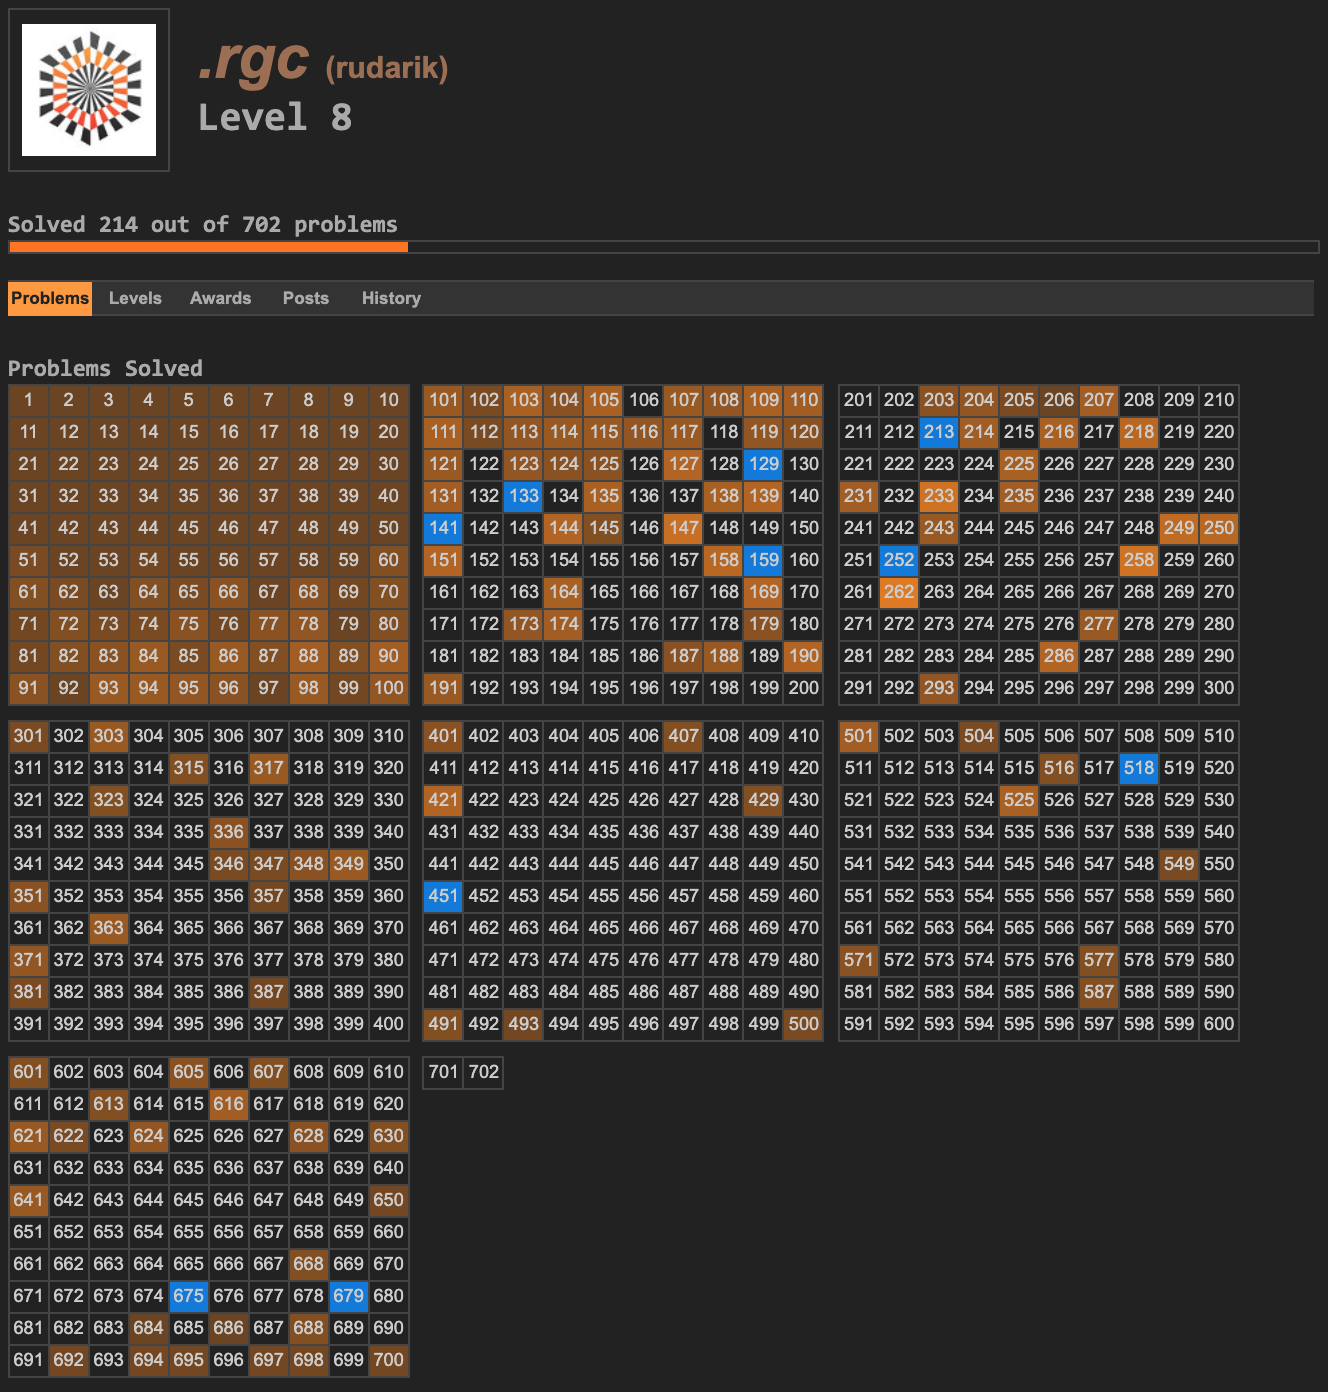
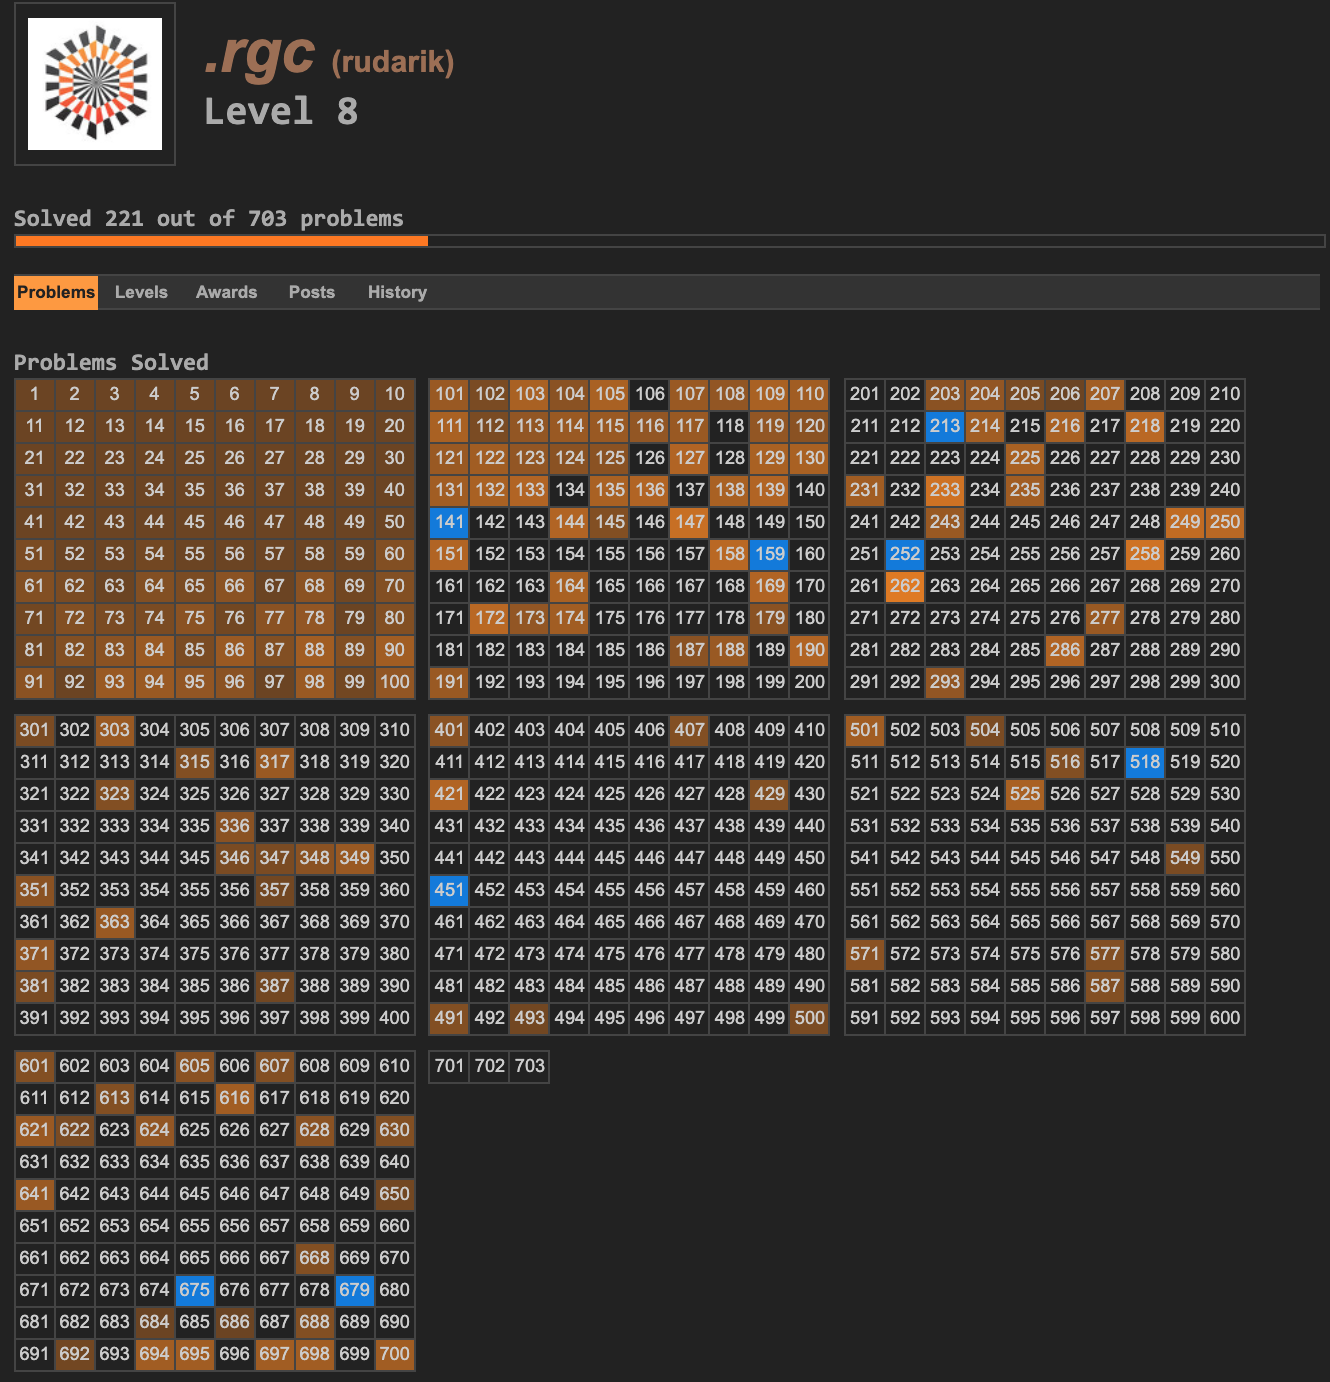
Solved: 129, 130, 132, 133

Changed region(s): [[0.0, 0.1556, 1.0, 0.9957], [0.0, 0.0, 0.3396, 0.1245]]

diff --git a/README.md b/README.md
@@ -99,6 +99,9 @@ Problem 700: "Eulercoin"
 * [Tonelli-Shanks Algorithm](https://en.wikipedia.org/wiki/Tonelli%E2%80%93Shanks_algorithm)
 Problem 216: "Investigating the primality of numbers of the form 2n^2-1"
 
+*[Repunit](https://en.wikipedia.org/wiki/Repunit)
+Problem 129: "Repunit divisibility", Problem 130: "Composites with prime repunit property", Problem 132: "Large repunit factors", Problem 132 "Repunit nonfactors"
+
 * [Pell's Equation](https://en.wikipedia.org/wiki/Pell%27s_equation)
 
 * [Mobius function](https://en.wikipedia.org/wiki/M%C3%B6bius_function)
